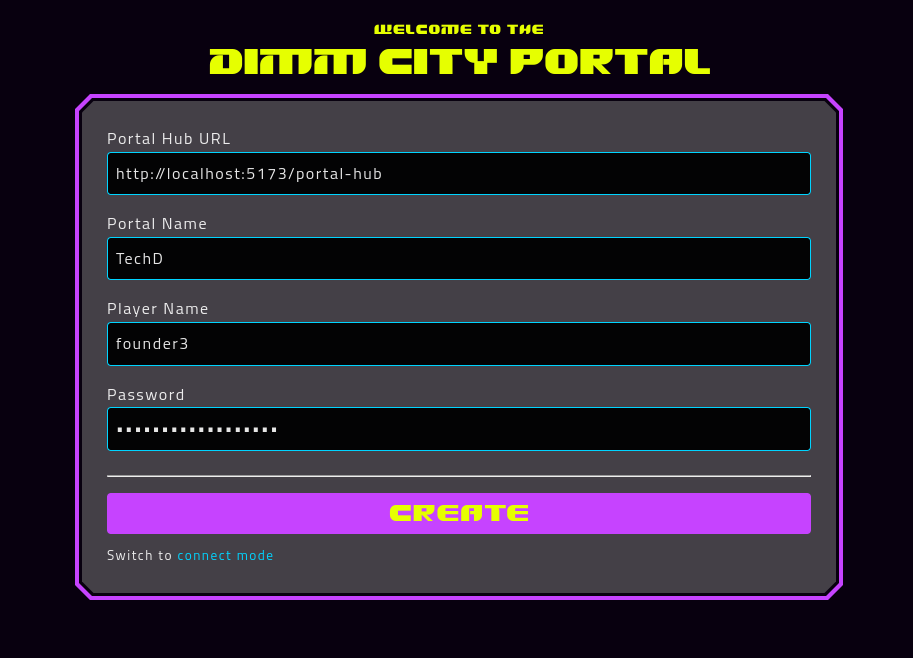
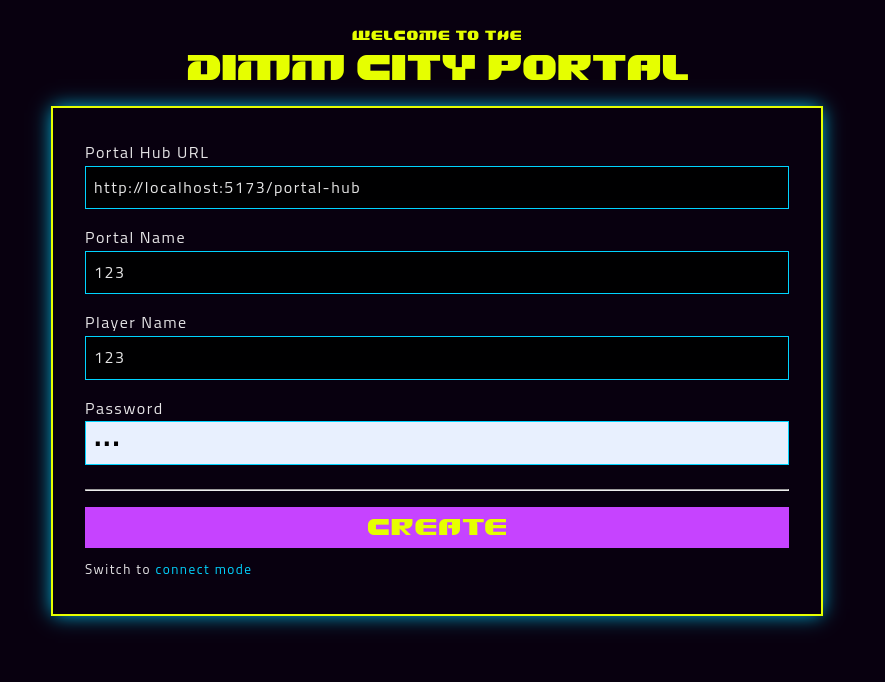
Sprucing up the styles a bit more

diff --git a/src/lib/components/Toolbar.svelte b/src/lib/components/Toolbar.svelte
@@ -123,14 +123,6 @@
 {/if}
 
 <style>
-	.player-indicator {
-		display: flex;
-		align-items: center;
-		gap: 0.5rem;
-		font-size: 16px;
-		white-space: nowrap; /* Prevents text wrapping */
-	}
-
 	.horizontal-bar {
 		display: flex;
 		flex-direction: row;
@@ -140,10 +132,19 @@
 		width: 100%;
 	}
 
+	.player-indicator {
+		position: relative;
+		display: flex;
+		align-items: center;
+		gap: 0.5rem;
+		font-size: 16px;
+		white-space: nowrap; /* Prevents text wrapping */
+	}
+
 	.player-count {
 		position: absolute;
-		margin-left: 5px;
-		font-size: 7px;
+		right: 5px;
+		font-size: 0.95rem;
 	}
 
 	.host-menu {
@@ -173,7 +174,6 @@
 		gap: 0.5rem;
 	}
 	select {
-	
 		height: min-content;
 		align-self: center;
 		padding: 0.5rem;
@@ -190,15 +190,21 @@
 	.icon-button {
 		cursor: pointer;
 		aspect-ratio: 1/1;
+		height: 50px;
+		width: 50px;
 		--aug-border-all: 1px;
 		--aug-border-bg: var(--color-accent-one);
 		--aug-all-width: max(45px, 2vw);
 		--aug-inlay-bg: var(--color-bg-secondary);
-		transition: background-color, color;
-		transition-duration: 300ms;
+		transition: background-color, color, box-shadow;
+		transition-duration: 600ms;
 		transition-timing-function: ease-in-out;
 		opacity: 1;
 		padding-inline: 0.5rem;
+		border-radius: 50%;
+		display: flex;
+		justify-content: center;
+		align-items: center;
 	}
 	.icon-button i {
 		font-size: 1.5rem;
@@ -207,6 +213,8 @@
 	.icon-button:focus {
 		color: var(--color-accent-one);
 		--aug-border-bg: var(--color-accent-three);
+
+		transition-duration: 300ms;
 	}
 
 	@media (max-width: 500px) {

diff --git a/src/lib/components/Alert.svelte b/src/lib/components/Alert.svelte
@@ -27,13 +27,13 @@
 
 {#if text}
 	<div
-		class="{getClass()} "
+		class="default-notification-style {getClass()}"
 		role="status"
 		aria-live="polite"
 		{id}
-		in:fly|global={{ x: '300px', easing: sineOut, duration: 200 }}
-		out:fly|global={{ x: '300px', easing: sineOut, duration: 200 }}
-		data-augmented-ui="  tl-clip-x tr-clip br-clip bl-clip both"
+		in:fly|global={{ x: '380px', easing: sineOut, duration: 200 }}
+		out:fly|global={{ x: '380px', easing: sineOut, duration: 200 }}
+		data-augmented-ui="tl-clip-x tr-clip br-clip bl-clip both"
 	>
 		<div class={getClass('content')}>
 			<slot>
@@ -68,12 +68,15 @@
 		display: flex;
 		align-items: stretch;
 		justify-content: space-between;
-		box-shadow: 0 4px 10px rgba(0, 0, 0, 0.08);
+		box-shadow:var(--shadow-default);
 		margin-top: 1rem;
 		min-height: 0;
 		min-width: 200px;
 		overflow: hidden;
 		opacity: 0.9;
+		outline: var(--color-accent-one) var(--outline-width) solid;
+
+		background-color: var(--color-bg-secondary) !important;
 	}
 
 	.default-notification-style-content {
@@ -82,6 +85,7 @@
 		box-sizing: border-box;
 		word-wrap: break-word;
 		border: 0;
+		background-color: var(--color-bg-secondary);
 	}
 
 	.default-notification-style-button {

diff --git a/src/lib/style.css b/src/lib/style.css
@@ -26,17 +26,20 @@
     --color-dark-overlay: rgba(17, 17, 17, 0.5);
     --color-dark: rgba(0, 0, 0, 0.95);
 
-    --color-accent-one: #e6ff00;    
-    --color-accent-two: #c643ff;    
+    --color-accent-one: #e6ff00;
+    --color-accent-two: #c643ff;
     --color-accent-three: #ff15cb;
     --color-accent-four: #00d4ff;
-        
+
 
     /* Borders and Shadows */
     --border-width: 1px;
-    --border-radius: 0.25rem;
+    --border-radius: 0rem;
     --shadow-default: 0 4px 6px var(--color-dark-overlay);
+    --shadow-accent: 0 0 20px var(--color-accent-four);
+    --shadow-accent-small: 0 0 10px var(--color-accent-four);
 
+    --outline-width: 2px;
 }
 
 [data-augmented-ui] {
@@ -135,12 +138,16 @@ button {
     background-color: var(--color-accent-two);
     padding: 0.5rem 1rem;
     border-radius: var(--border-radius);
-    transition: background-color 0.3s ease, transform 0.2s ease;
+    transition: background-color, box-shadow;
+    transition-duration: 500ms;
+    transition-timing-function: ease-in-out;
 }
 
 button:hover {
     background-color: var(--color-accent-three);
     color: var(--color-accent-one);
+    box-shadow: var(--shadow-accent-small);
+    transition-duration: 300ms;
 }
 
 input,

diff --git a/src/routes/+page.svelte b/src/routes/+page.svelte
@@ -54,6 +54,10 @@
 
 <svelte:head>
 	<title>Dimm City Portal</title>
+
+	<link rel="stylesheet" href="https://cdnjs.cloudflare.com/ajax/libs/animate.css/4.1.1/animate.min.css" />
+	<!-- <link rel="stylesheet" type="text/css" href="https://unpkg.com/augmented-ui@2/augmented-ui.min.css"> -->
+	<link rel="stylesheet" href="https://cdn.jsdelivr.net/npm/bootstrap-icons@1.11.3/font/bootstrap-icons.min.css">
 </svelte:head>
 <Notifications item={Alert} zIndex={999999}>
 	<section>
@@ -78,7 +82,7 @@
 	}
 	h1 {
 		text-align: center;
-		margin-block: 1rem;
+		margin-block: 1.5rem;
 	}
 	section {
 		display: flex;

diff --git a/src/lib/components/SessionManager.svelte b/src/lib/components/SessionManager.svelte
@@ -196,6 +196,9 @@
 </div>
 
 <style>
+	[data-augmented-ui] {
+		--aug-border-bg: var(--color-accent-one);
+	}
 	label {
 		width: 100%;
 	}
@@ -207,7 +210,11 @@
 		display: grid;
 		height: 100%;
 		width: 40dvw;
+		outline: var(--color-accent-one) solid var(--outline-width);
+
+		box-shadow:var(--shadow-accent);
 	}
+	
 	.session-form {
 		width: 100%;
 		display: flex;
@@ -217,9 +224,8 @@
 		margin: auto;
 		gap: 0.5rem;
 		padding: 2rem;
-		
 	}
-	@media (max-width: 768px) {		
+	@media (max-width: 768px) {
 		.session-form {
 			width: 80dvw;
 		}

diff --git a/src/app.html b/src/app.html
@@ -5,9 +5,6 @@
 	<meta charset="utf-8" />
 	<link rel="icon" href="%sveltekit.assets%/favicon.png" />
 	<meta name="viewport" content="width=device-width, initial-scale=1" />
-	<link rel="stylesheet" href="https://cdnjs.cloudflare.com/ajax/libs/animate.css/4.1.1/animate.min.css" />
-	<link rel="stylesheet" type="text/css" href="https://unpkg.com/augmented-ui@2/augmented-ui.min.css">
-	<link rel="stylesheet" href="https://cdn.jsdelivr.net/npm/bootstrap-icons@1.11.3/font/bootstrap-icons.min.css">
 	%sveltekit.head%
 </head>
 

diff --git a/src/lib/components/Portal.svelte b/src/lib/components/Portal.svelte
@@ -108,7 +108,7 @@
 				addNotification({
 					id: `${new Date().getTime()}-${Math.floor(Math.random() * 9999)}`,
 					position: 'top-right',
-					removeAfter: defaultAlertDisplayTime,
+					removeAfter: defaultAlertDisplayTime *10,
 					allowRemove: true,
 					heading: 'Copied to clipboard!',
 					type: 'success',

diff --git a/src/lib/components/Token.svelte b/src/lib/components/Token.svelte
@@ -247,6 +247,7 @@
 		position: absolute;
 		background-color: whitesmoke;
 		--aug-border-all: 1px;
+		border-radius: 50%;
 	}
 	.token.enable {
 		cursor: pointer;
